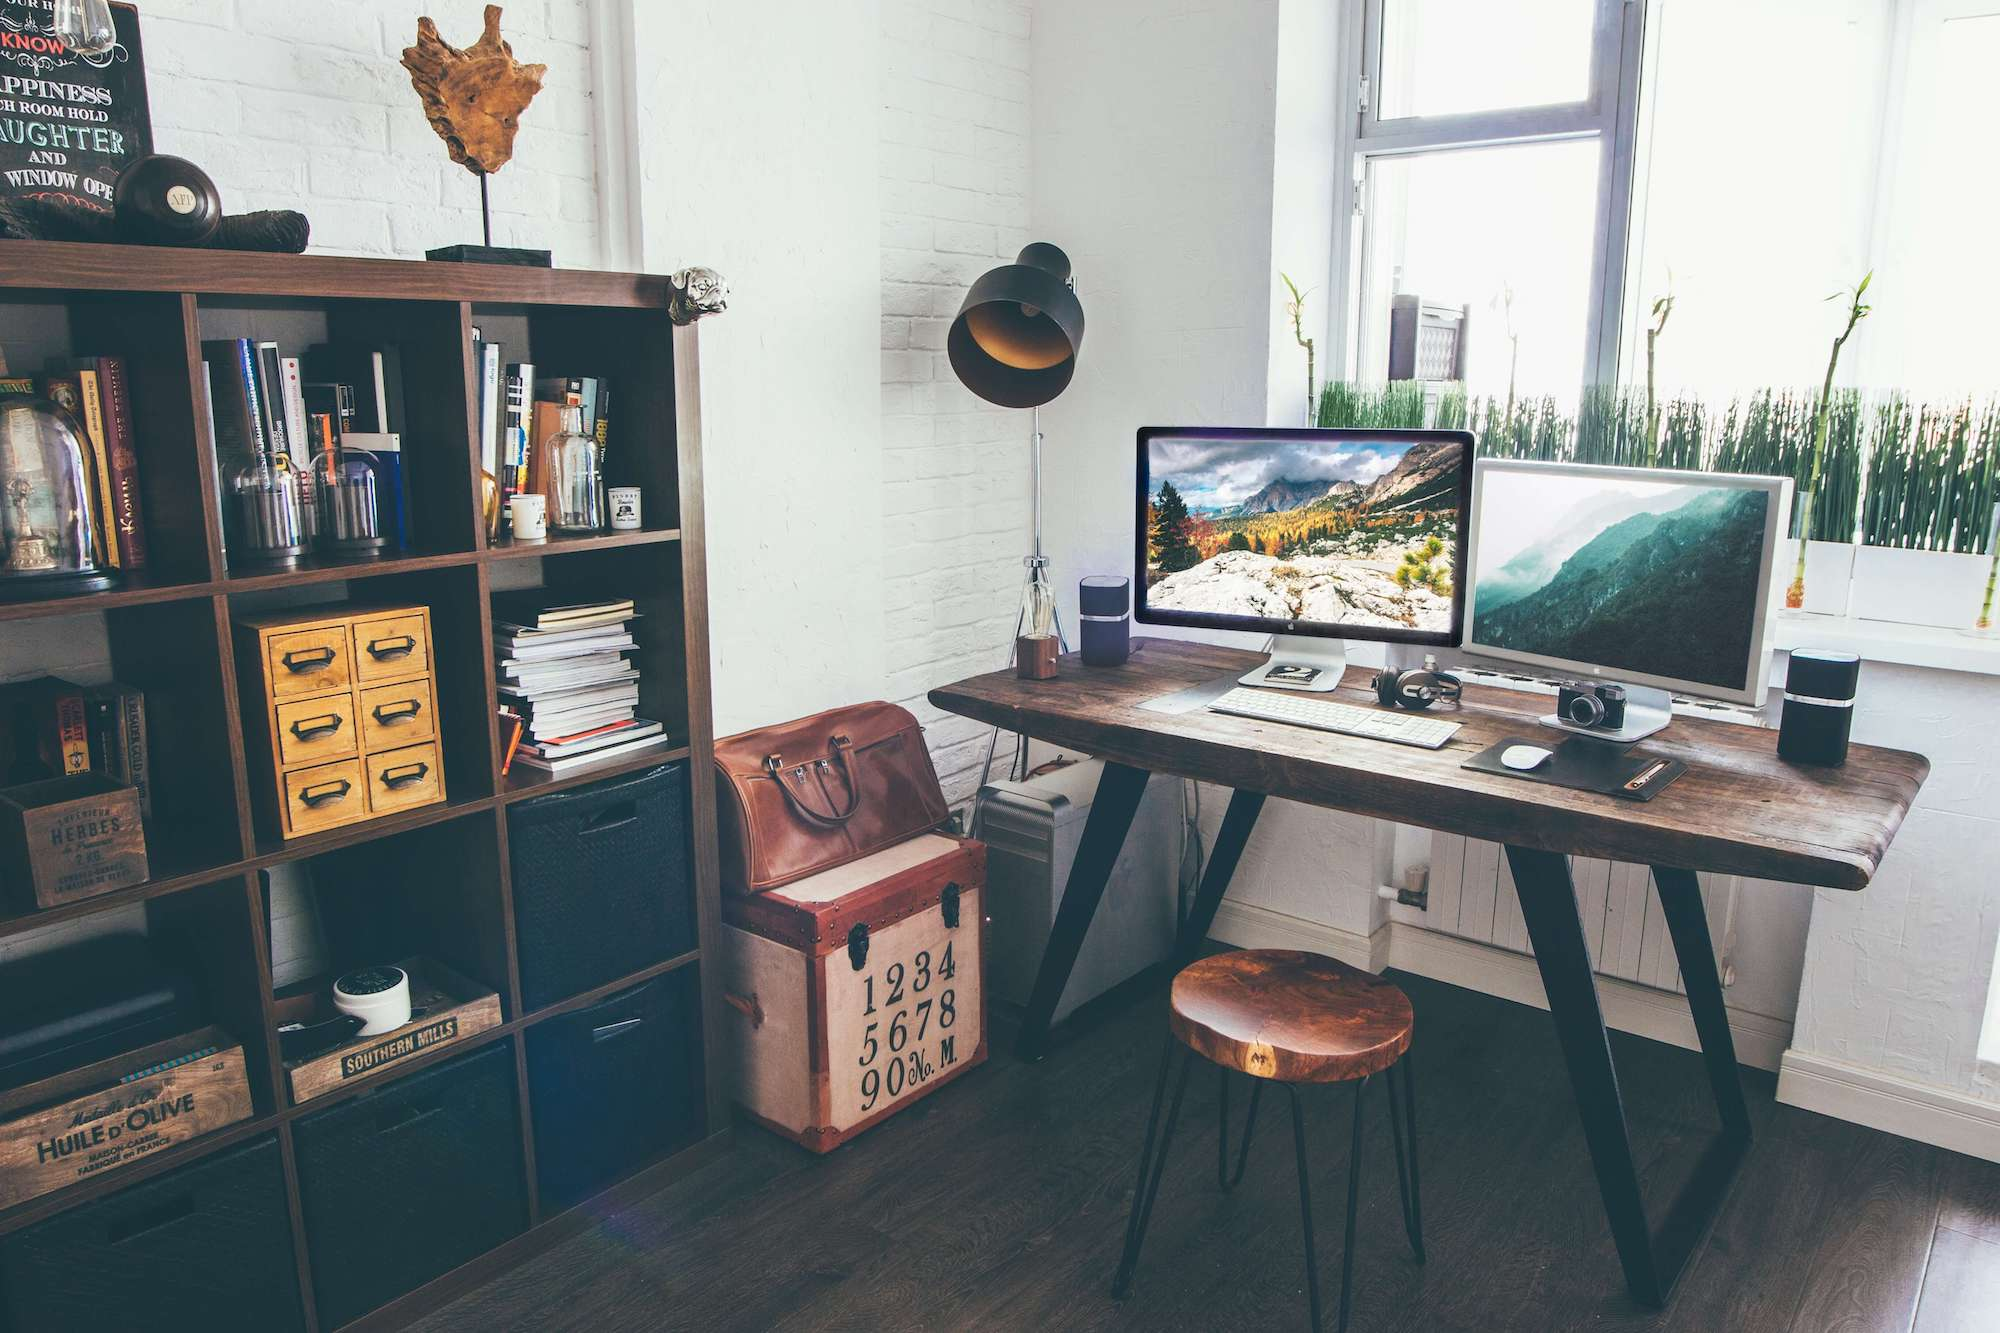
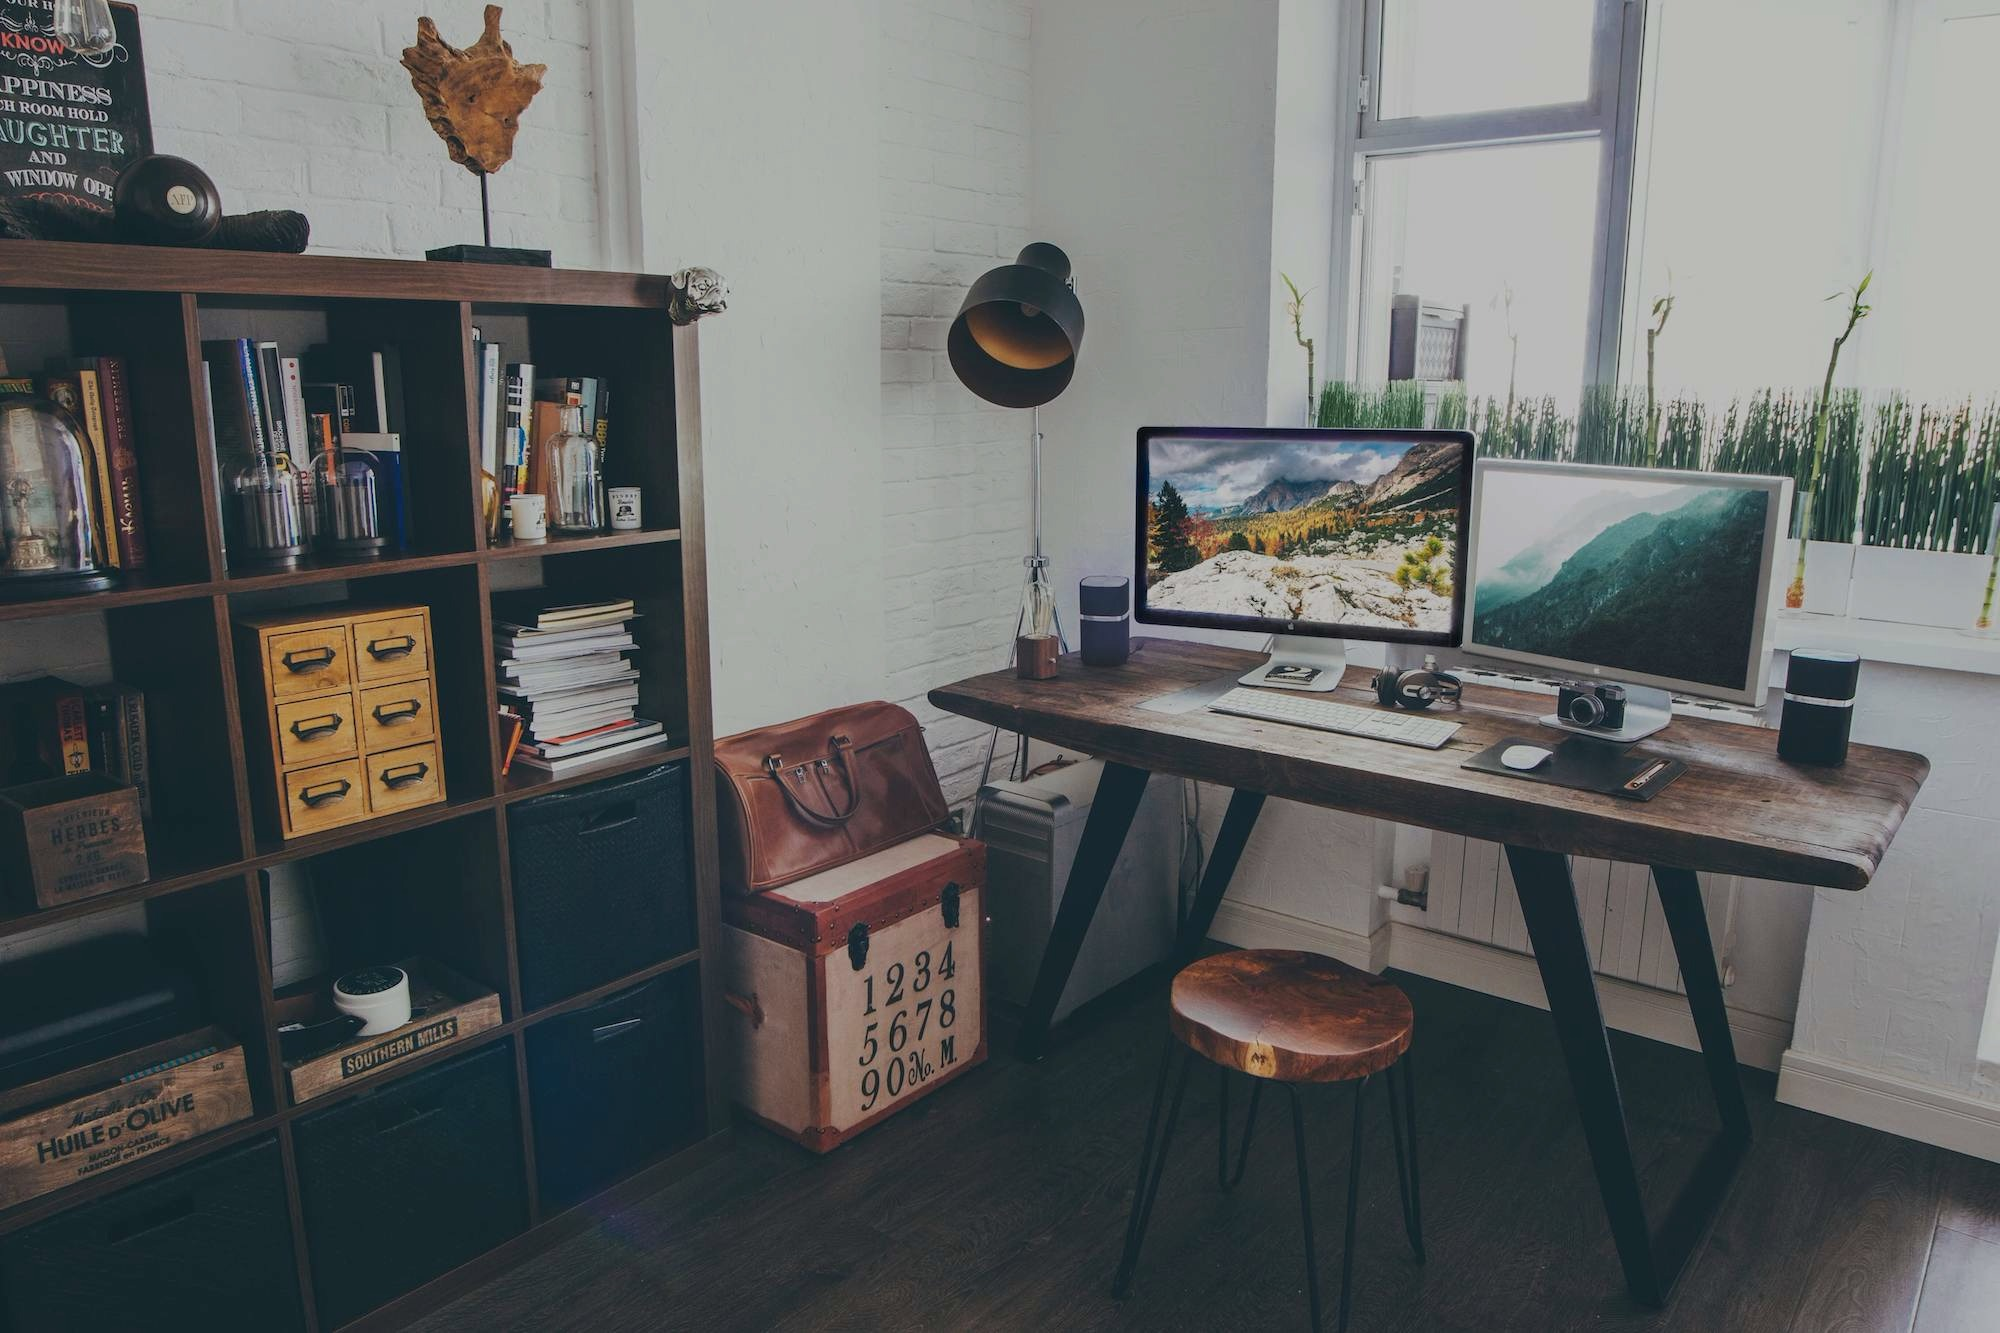
Final site tweaks

diff --git a/assets/sass/layout/_header.scss b/assets/sass/layout/_header.scss
@@ -7,10 +7,10 @@
 		'filter #{$articleDuration} ease-in-out',
 		'opacity #{$articleDuration} ease-in-out',
 	));
-	background-image: -moz-radial-gradient(rgba(0,0,0,.5) 25%, rgba(0,0,0,0) 70%);
-	background-image: -webkit-radial-gradient(rgba(0,0,0,.5) 25%, rgba(0,0,0,0) 70%);
-	background-image: -ms-radial-gradient(rgba(0,0,0,.5) 25%, rgba(0,0,0,0) 70%);
-	background-image: radial-gradient(rgba(0,0,0,.5) 25%, rgba(0,0,0,0) 70%);
+    background-image: -moz-radial-gradient(rgba(0,0,0,0.25) 25%, rgba(0,0,0,0) 55%);
+	background-image: -webkit-radial-gradient(rgba(0,0,0,0.25) 25%, rgba(0,0,0,0) 55%);
+	background-image: -ms-radial-gradient(rgba(0,0,0,0.25) 25%, rgba(0,0,0,0) 55%);
+	background-image: radial-gradient(rgba(0,0,0,0.25) 25%, rgba(0,0,0,0) 55%);
 	max-width: 100%;
 	text-align: center;
 
@@ -77,6 +77,7 @@
 	}
 
 	body.is-loading & {
+        background-image:none !important;
 		> * {
             @include vendor('opacity', '0');
 		}

diff --git a/assets/sass/components/_article.scss b/assets/sass/components/_article.scss
@@ -25,9 +25,15 @@ article {
         width: 4em;
         height: 4em;
         cursor: pointer;
-        text-indent: 4em;
         overflow: hidden;
         white-space: nowrap;
+        text-align:center;
+        padding-top:1.2em;
+
+        .fa {
+            @include vendor('transition', 'opacity #{$transitionDuration} ease-in-out');
+            @include vendor('opacity', '0');
+        }
 
         &:before {
             @include vendor('transition', 'background-color #{$transitionDuration} ease-in-out');
@@ -46,6 +52,10 @@ article {
         }
 
         &:hover, &:active {
+            .fa {
+                @include vendor('opacity', '1');
+            }
+
             &:before {
                 background-color: rgba($textColor, 0.075);
             }

diff --git a/assets/js/components/articles.js b/assets/js/components/articles.js
@@ -3,7 +3,7 @@ exports.init = init;
 function init()
 {
     $('#main').children('article').each(function() {
-		$('<div class="close">Close</div>')
+		$('<div class="close"><span class="fa fa-close"></span></div>')
 		.appendTo($(this))
 		.on('click', function() {
 			location.hash = '';

diff --git a/public/index.php b/public/index.php
@@ -30,14 +30,15 @@
     <div id="wrapper">
 
         <header id="header">
-			<div class="logo"> 
+			<div class="logo">
                 <span class="fa fa-<?php echo $logoIcons[rand(0, count($logoIcons) - 1)]; ?>"></span>
 			</div>
 			<div class="content">
 				<div class="inner">
 					<h1>Tina Vandervecht</h1>
-					<p>Developer. Passionate about trivia. Chronic talker.</p>
-                    <p>
+					<p>
+                        Developer. Passionate about trivia. Chronic talker.
+                        <br />
                         <u>Available for freelance.</u>
                     </p>
 				</div>
